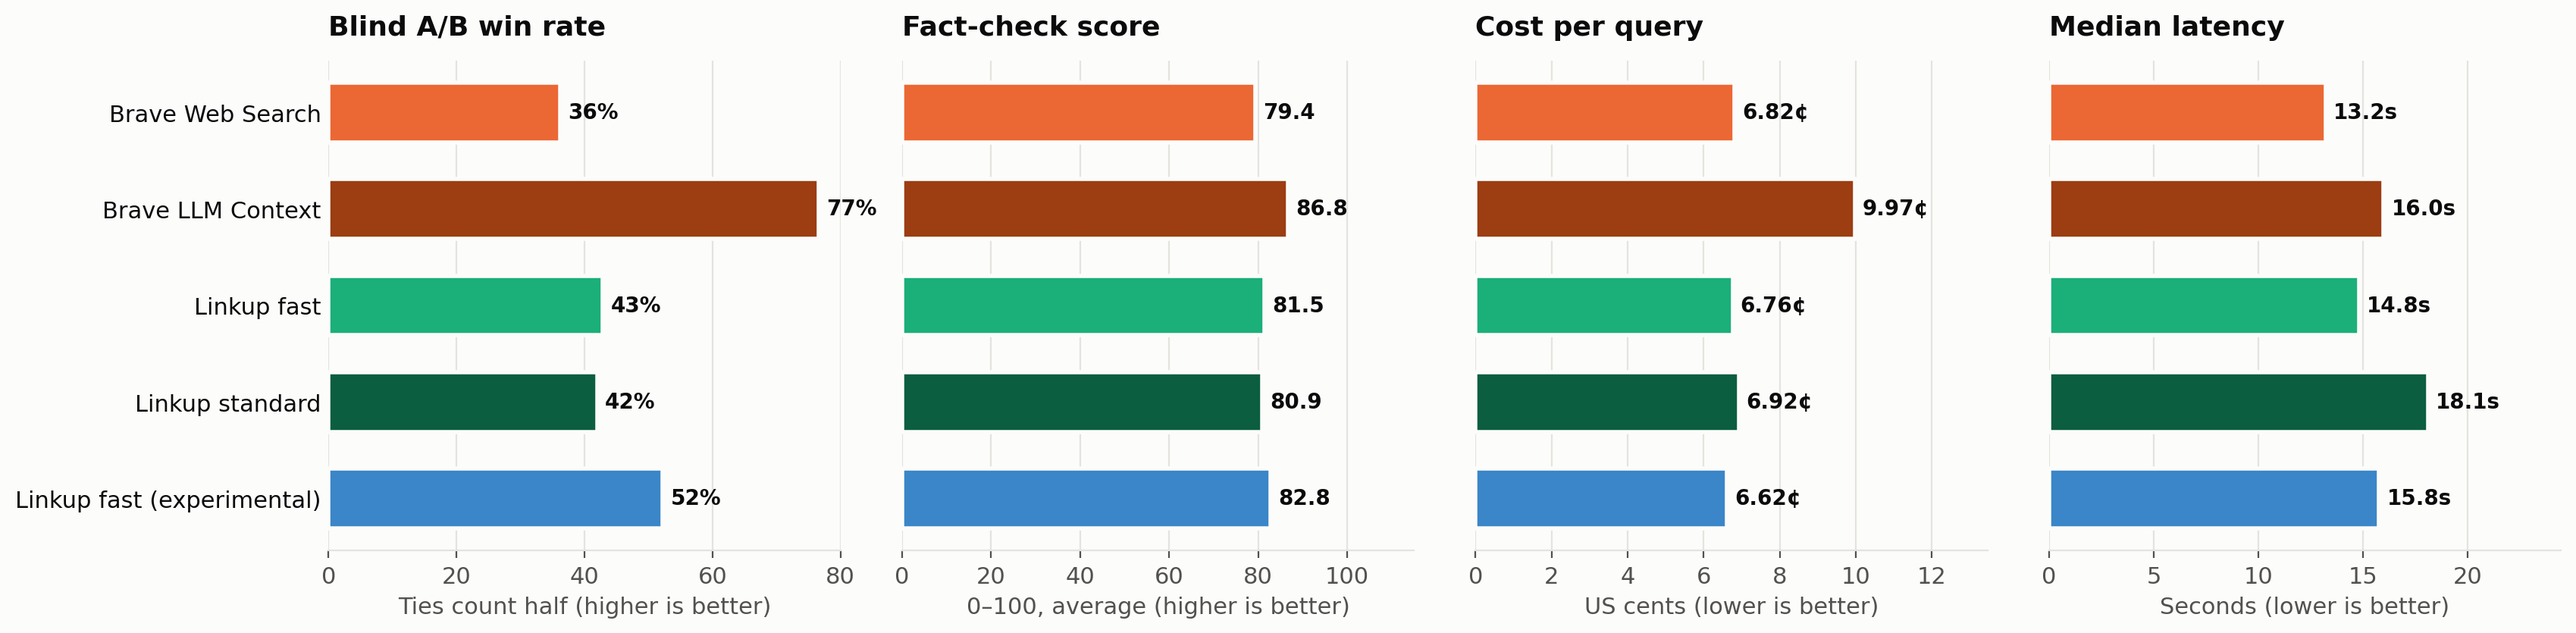
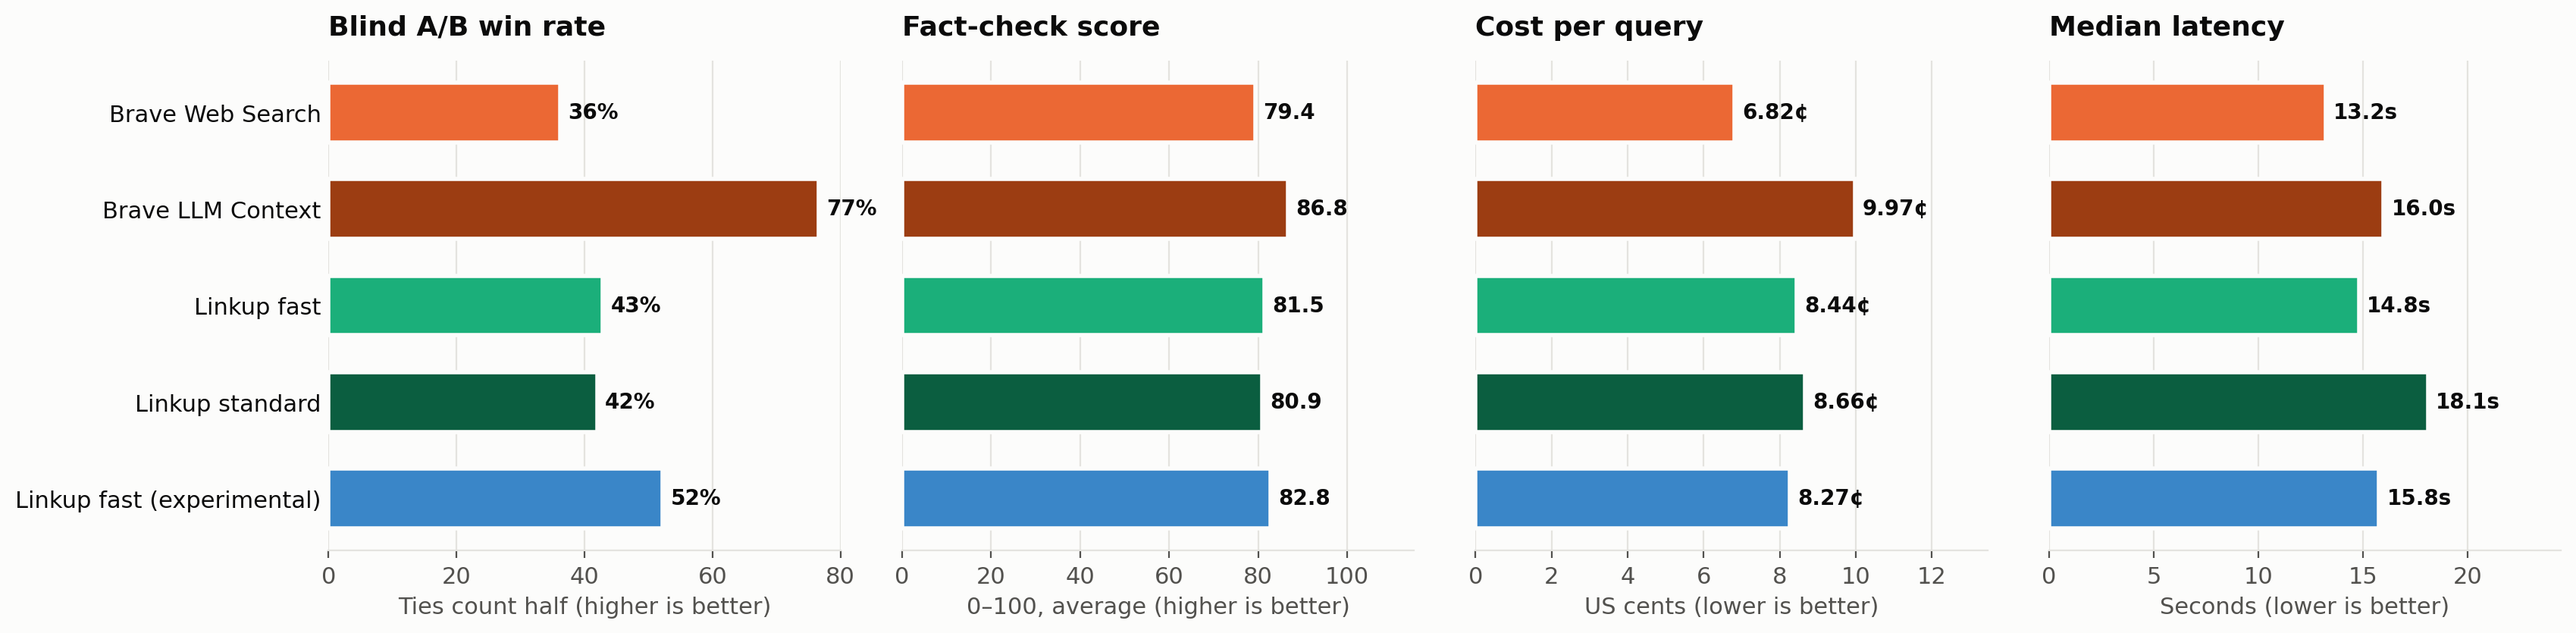
Remove the projected compressor savings from Linkup cost

Changed region(s): [[0.6551, 0.5916, 0.7487, 0.685], [0.6551, 0.4359, 0.7487, 0.5293], [0.6551, 0.7473, 0.7175, 0.8407]]

diff --git a/build.py b/build.py
@@ -35,10 +35,6 @@ PRICE = {
 }
 VOLS = [1_000_000, 5_000_000, 10_000_000]  # Langdock's expected monthly range
 
-# Linkup's snippet compressor cuts retrieved content by 30%. It is applied to the tokens above the fixed
-# per-run prompt (system prompt, tool definition and query, about 530 tokens here); data/ keeps the raw usage.
-SNIPPET_CUT = 0.30
-OVERHEAD = {"cache_write_tokens": 530, "cache_read_tokens": 530}
 
 
 def rows(name):
@@ -72,15 +68,6 @@ def sign_p(a, b):
 def quantile(xs, p):
     s = sorted(xs)
     return s[min(len(s) - 1, int(p * len(s)))]
-
-
-def billed_usage(arm, u):
-    if not arm.startswith("linkup"):
-        return u
-    u = dict(u)
-    for k, base in OVERHEAD.items():
-        u[k] = u[k] - SNIPPET_CUT * max(0, u[k] - base)
-    return u
 
 
 def token_cost(u):
@@ -118,7 +105,7 @@ M = {}
 for a in ARMS:
     g = [fc[(i, a)] for i in ids]
     r = [answers[a][i] for i in ids]
-    usage = [billed_usage(a, x["usage"]) for x in r]
+    usage = [x["usage"] for x in r]
     fees = [x["searches"] * PRICE[a] / 1000 for x in r]
     toks = [token_cost(u) for u in usage]
     total = [f + t for f, t in zip(fees, toks)]
@@ -426,8 +413,6 @@ Score differences between arms, per query:
 {COST}
 
 {SCALE}
-
-Linkup cost reflects the snippet compressor (30% fewer retrieved tokens), releasing the week of October 19, 2026.
 
 Search fees are Brave at its $5.00 list price (the Search plan covers both endpoints) and Linkup at the $4.00 per 1,000 calls offered to Langdock (20% off list); the rest of the cost comes from how much text Claude reads and writes. Prices: Sonnet 5.5 ${PRICE['sonnet_input']:.2f} / ${PRICE['sonnet_output']:.2f} per million input / output tokens (cache reads ${PRICE['sonnet_cache_read']:.2f}, cache writes ${PRICE['sonnet_cache_write']:.2f}). Any volume discount Brave offers Langdock is not included.
 

diff --git a/README.md b/README.md
@@ -4,7 +4,7 @@ Claude Sonnet 5.5 answered 100 of Langdock's search queries five times, each tim
 
 - **Blind A/B:** Brave LLM Context has the highest win rate (77%); see every pair below.
 - **Fact-check:** Brave LLM Context scores highest (86.8 out of 100, 39 answers fully correct).
-- **Cost per query:** lowest with Linkup fast (experimental) ($0.0662).
+- **Cost per query:** lowest with Brave Web Search ($0.0682).
 - **Median latency:** lowest with Brave Web Search (13.2s).
 
 ![Win rate, fact-check score, cost and latency for each arm](charts/overview.png)
@@ -14,8 +14,8 @@ Claude Sonnet 5.5 answered 100 of Langdock's search queries five times, each tim
 | Blind A/B win rate (ties count half) | 36% | 77% | 43% | 42% | 52% |
 | Fact-check score (0–100) | 79.4 | 86.8 | 81.5 | 80.9 | 82.8 |
 | Fully correct (fact-check) | 26 | 39 | 30 | 33 | 30 |
-| Cost per query | $0.0682 | $0.0997 | $0.0676 | $0.0692 | $0.0662 |
-| Cost per correct answer | $0.2622 | $0.2557 | $0.2255 | $0.2098 | $0.2207 |
+| Cost per query | $0.0682 | $0.0997 | $0.0844 | $0.0866 | $0.0827 |
+| Cost per correct answer | $0.2622 | $0.2557 | $0.2813 | $0.2624 | $0.2756 |
 | Median latency | 13.2s | 16.0s | 14.8s | 18.1s | 15.8s |
 
 ## Setup
@@ -93,21 +93,19 @@ Score differences between arms, per query:
 
 | Per query | Brave Web Search | Brave LLM Context | Linkup fast | Linkup standard | Linkup fast (experimental) |
 |---|---|---|---|---|---|
-| Total cost | $0.0682 | $0.0997 | $0.0676 | $0.0692 | $0.0662 |
-| Cost per correct answer | $0.2622 | $0.2557 | $0.2255 | $0.2098 | $0.2207 |
+| Total cost | $0.0682 | $0.0997 | $0.0844 | $0.0866 | $0.0827 |
+| Cost per correct answer | $0.2622 | $0.2557 | $0.2813 | $0.2624 | $0.2756 |
 | Search fees | $0.0112 | $0.0098 | $0.0083 | $0.0086 | $0.0078 |
-| Model tokens | $0.0570 | $0.0900 | $0.0593 | $0.0606 | $0.0585 |
+| Model tokens | $0.0570 | $0.0900 | $0.0761 | $0.0780 | $0.0749 |
 | Searches | 2.23 | 1.95 | 2.08 | 2.16 | 1.94 |
-| Input tokens (incl. cache) | 18,488 | 29,762 | 20,227 | 22,475 | 18,646 |
+| Input tokens (incl. cache) | 18,488 | 29,762 | 28,439 | 31,650 | 26,181 |
 | Output tokens | 1,784 | 1,988 | 1,877 | 1,864 | 1,857 |
 
 | Queries per month | Brave Web Search | Brave LLM Context | Linkup fast | Linkup standard | Linkup fast (experimental) |
 |---|---|---|---|---|---|
-| 1,000,000 | $68,183 | $99,740 | $67,640 | $69,234 | $66,214 |
-| 5,000,000 | $340,916 | $498,698 | $338,199 | $346,171 | $331,070 |
-| 10,000,000 | $681,833 | $997,395 | $676,399 | $692,341 | $662,141 |
-
-Linkup cost reflects the snippet compressor (30% fewer retrieved tokens), releasing the week of October 19, 2026.
+| 1,000,000 | $68,183 | $99,740 | $84,400 | $86,597 | $82,689 |
+| 5,000,000 | $340,916 | $498,698 | $421,998 | $432,985 | $413,443 |
+| 10,000,000 | $681,833 | $997,395 | $843,997 | $865,970 | $826,886 |
 
 Search fees are Brave at its $5.00 list price (the Search plan covers both endpoints) and Linkup at the $4.00 per 1,000 calls offered to Langdock (20% off list); the rest of the cost comes from how much text Claude reads and writes. Prices: Sonnet 5.5 $2.00 / $10.00 per million input / output tokens (cache reads $0.20, cache writes $2.50). Any volume discount Brave offers Langdock is not included.
 
